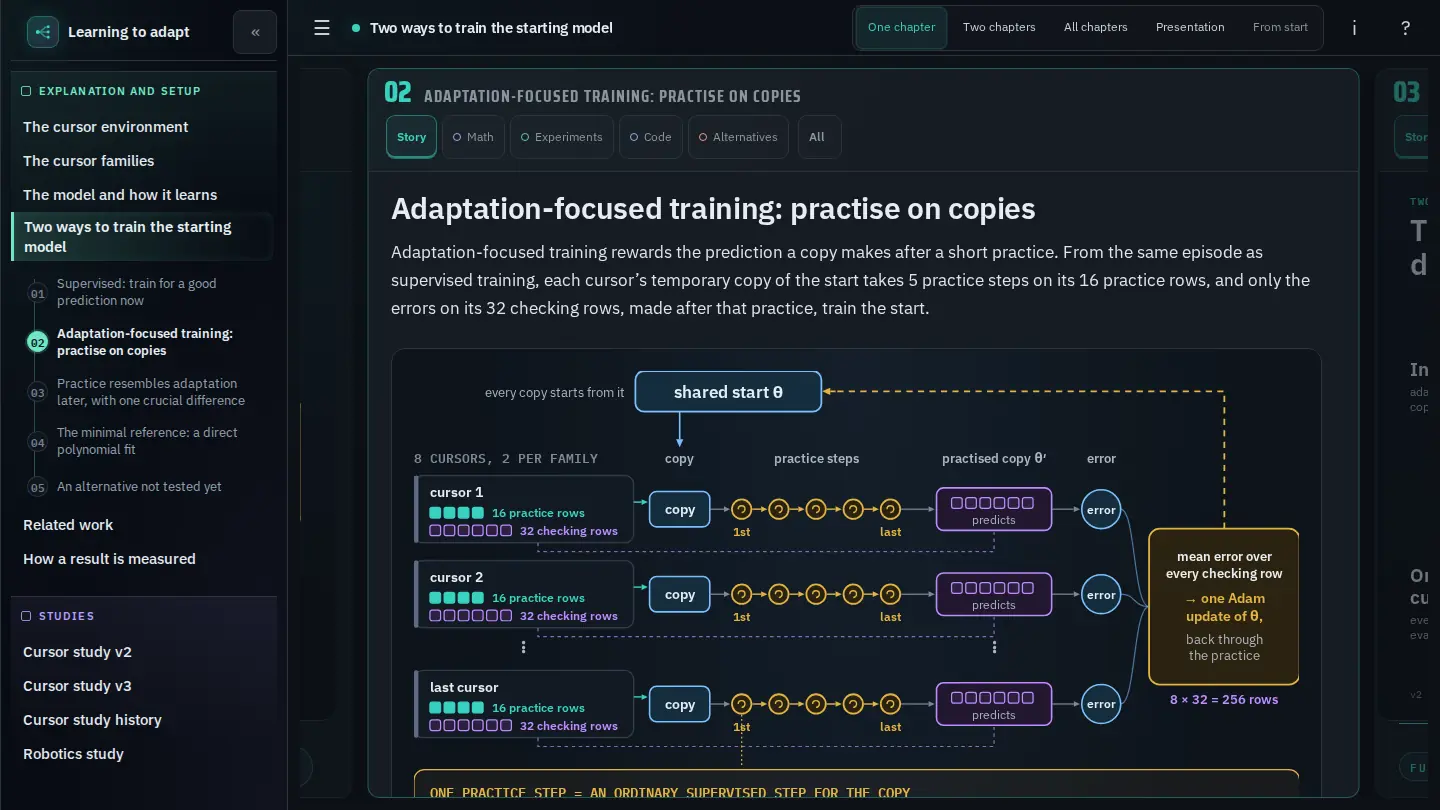
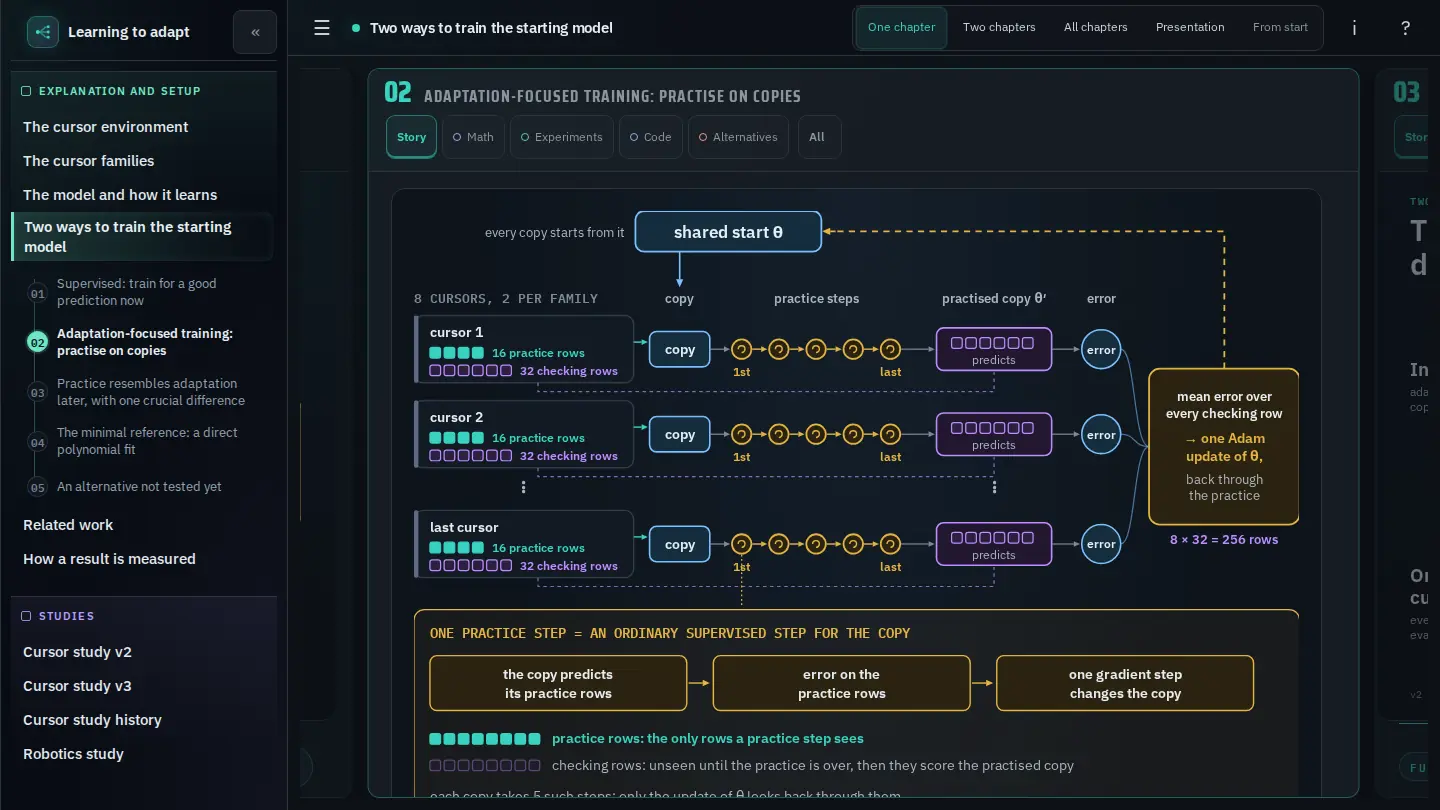
Retake the showcase pictures and say what each example shows
A review from the adaptation project found three faults in the
showcase of 5.6.0. One picture showed the footer of its page laid over
the reader, a defect that project has since removed. Two reader
pictures showed only the opening text of their chapter, not the figure
that makes it an example. And nothing told a reader what to look at.

All six reader pictures are retaken at the same adaptation commit with
the footer hidden and the chapter scrolled to its main figure. Five
lines under the figure name the kind of chapter and what to look at.
This is release 5.6.1, a patch: only the kit's own site and its README
picture change.

Changed region(s): [[0.25, 0.2469, 0.9062, 0.9877]]

diff --git a/docs/topics/build-a-site/index.md b/docs/topics/build-a-site/index.md
@@ -301,8 +301,17 @@ A single scroll is still available as **All chapters**, and it is what print and
 <img src="../topics/build-a-site/media/showcase/against-reference-face.webp" alt="Slide face from the adaptation project: a direct polynomial fit compared with the neural settings on six laws.">
 <img src="../topics/build-a-site/media/showcase/against-reference-reader.webp" alt="Its chapter in the reader: “Against the minimal reference, a straight-line fit is already enough”.">
 </div>
-<figcaption><b>Figure 3.</b> Six chapters of the adaptation project in a carousel: each slide face, then its chapter in the reader. They are examples of what a project can build with the kit, not templates. They were captured from that project at its commit <code>d22ef36</code> on 2026-11-25 and are not maintained; the text and numbers are the project's. The carousel advances by itself and pauses on hover; click a picture to open it full screen, scroll to zoom, drag to pan, <kbd>Esc</kbd> to close.</figcaption>
+<figcaption><b>Figure 3.</b> Six chapters of the adaptation project in a carousel: each slide face, then its chapter in the reader, scrolled to its main figure. They are examples of what a project can build with the kit, not templates. They were captured from that project at its commit <code>d22ef36</code> on 2026-11-25 and are not maintained; the text and numbers are the project's. The carousel advances by itself and pauses on hover; click a picture to open it full screen, scroll to zoom, drag to pan, <kbd>Esc</kbd> to close.</figcaption>
 </figure>
+
+What each example shows, in the order of the carousel:
+
+- **Pictures 1 and 2, a mechanism built step by step.** The face adds the four terms of a sum head to tail and magnifies the two small ones; the chapter builds the same sum over four panels.
+- **Pictures 3 and 4, a formula's terms as the visual.** Each family sits under the part of the law it rewrites, and an empty column marks the parts that no family rewrites.
+- **Pictures 5 to 8, twin chapters.** Two training methods on the same data with a different reward, drawn in one visual language so that the difference reads across the two.
+- **Pictures 9 and 10, real numbers and a historical case.** The teaching example uses the project's own numbers, and the failed run on the face shows only the values that were recorded, with no curve invented between them.
+- **Pictures 11 and 12, a result with its limit.** The face states the claim together with the one law where it stops holding; the chapter goes law by law.
+
 <div class="bs-grid g2">
 <div class="bs-part bs-teal"><span class="bs-label">Figures</span><h3>Built from the page, checked by the build</h3><ul>
 <li>flows and diagrams are HTML or SVG blocks with a text alternative, like Figures 1 and 2</li>

diff --git a/README.md b/README.md
@@ -176,7 +176,7 @@ says how to check and create it.
 The kit is versioned in `VERSION` and tagged `v<version>`. [Releases and
 upgrades](docs/topics/releases/releases.md) lists what each version changes for
 consumers and the migration steps; 1.0.0 is the first stable version.
-The current release is 5.6.0, a minor release that needs no migration step. The [5.5.0 migration guide](docs/topics/releases/migrations/5.5.0.md) covers the lint warning for a repeated id and the larger small labels. The [5.2.0 migration guide](docs/topics/releases/migrations/5.2.0.md) covers generated figures in two themes and the lint warning for untracked tooling; the [5.1.0 guide](docs/topics/releases/migrations/5.1.0.md) starts with which folders the Reference section lists, a decision a private repository with a public site makes before it moves the pin; the [5.0.0 guide](docs/topics/releases/migrations/5.0.0.md), the [4.0.0 guide](docs/topics/releases/migrations/4.0.0.md), the [3.2.0 guide](docs/topics/releases/migrations/3.2.0.md), the [3.1.0 guide](docs/topics/releases/migrations/3.1.0.md), the [3.0.0 guide](docs/topics/releases/migrations/3.0.0.md), the [2.0.0 guide](docs/topics/releases/migrations/2.0.0.md) and the [1.1.0 guide](docs/topics/releases/migrations/1.1.0.md) cover the earlier steps.
+The current release is 5.6.1, a patch that needs no migration step. The [5.5.0 migration guide](docs/topics/releases/migrations/5.5.0.md) covers the lint warning for a repeated id and the larger small labels. The [5.2.0 migration guide](docs/topics/releases/migrations/5.2.0.md) covers generated figures in two themes and the lint warning for untracked tooling; the [5.1.0 guide](docs/topics/releases/migrations/5.1.0.md) starts with which folders the Reference section lists, a decision a private repository with a public site makes before it moves the pin; the [5.0.0 guide](docs/topics/releases/migrations/5.0.0.md), the [4.0.0 guide](docs/topics/releases/migrations/4.0.0.md), the [3.2.0 guide](docs/topics/releases/migrations/3.2.0.md), the [3.1.0 guide](docs/topics/releases/migrations/3.1.0.md), the [3.0.0 guide](docs/topics/releases/migrations/3.0.0.md), the [2.0.0 guide](docs/topics/releases/migrations/2.0.0.md) and the [1.1.0 guide](docs/topics/releases/migrations/1.1.0.md) cover the earlier steps.
 
 Then run the [project conformance check](rules/conformance.md) and report its
 findings. Review changed human pages at wide and narrow widths before committing the

diff --git a/docs/KIT_WORKLOG.md b/docs/KIT_WORKLOG.md
@@ -2,6 +2,35 @@
 
 Chronology is append-only, newest first. Shared policy stays in `rules/`.
 
+## 2026-11-25 — 5.6.1 built on a branch: showcase pictures retaken
+
+- 5.6.0 is released: tag `v5.6.0` on `d705a2f`, pushed with `main`. The
+  Pages workflow passed, and the live site shows the 5.6.0 note, the page
+  types and the twelve pictures. Branch `rules-5.6.0`, this session's
+  scratch files and the brief from the adaptation session are removed.
+- deivid pasted a review of the showcase from the adaptation project with
+  three points. Checked before acting: the footer over the reader in the
+  picture of "Against the minimal reference" was visible in the picture;
+  the adaptation commit `33ccf8f`, "Remove the footers after the last
+  chapter of the three Cursor readers", exists in the local checkout.
+- My miss in 5.6.0: I had looked at three of the six reader pictures
+  before the release, saw the footer line in one and let it pass, and
+  did not check that each picture showed its chapter's figure. I had also
+  proposed one line per example and then wrote only alternative texts.
+- Retaken: all six reader pictures, from adaptation at `d22ef36` built
+  with kit `v5.5.1` in a scratch clone, 1440 by 810 px, footer hidden,
+  the chapter scrolled so that its main figure starts 16 px below the
+  chapter head. The twelve pictures are 545,768 bytes together.
+- Limit: the chapter "Step downhill, but not too far" has its two figures
+  1,223 px apart at this width, more than one window shows. The picture
+  shows the first, the error valley; the recorded failed run is on the
+  slide face.
+- Added under Figure 3: five lines that name the kind of chapter and what
+  to look at, in the review's wording where the pictures support it.
+- Looked at by eye: a sheet of all six retaken pictures, the chapter at
+  1440 px, and slides 10 and 12 in the carousel at 390 px.
+- Not pushed and not tagged. Release waits for deivid's go.
+
 ## 2026-11-25 — Release 5.6.0
 
 - deivid gave the go: "Yes, release 5.6.0". The ask named what the go

diff --git a/docs/topics/releases/releases.md b/docs/topics/releases/releases.md
@@ -26,6 +26,33 @@ gives the step for each. A minor upgrade can therefore need work: the
 [project conformance check](../../../rules/conformance.md) runs strict lint and
 shows the new warnings.
 
+## 5.6.1 — the showcase pictures retaken, and a line on what each shows
+
+5.6.1 is a patch release under
+[what a version number promises](#what-a-version-number-promises): it
+corrects the showcase that 5.6.0 added to
+[Build a site](../build-a-site/index.md) and needs no migration step. Only
+the kit's own site and its README picture change; a project moves its pin
+to `v5.6.1` and builds as before. A review from the adaptation project
+named the three points.
+
+- **One picture showed a defect of the page it came from.** In the picture
+  of the chapter "Against the minimal reference" the page's footer lay over
+  the bottom of the reader. The picture is retaken at the same commit,
+  `d22ef36`, with the footer hidden.
+- **Each reader picture shows its chapter's main figure.** Two of the six
+  showed only the opening text of their chapter. All six are retaken,
+  scrolled so that the figure starts the view.
+- **A line says what each example shows.** Under the figure, five lines
+  name the kind of chapter and what to look at.
+
+Not covered. The chapter "Step downhill, but not too far" has two figures,
+the error valley and the recorded failed run, with text between them; one
+picture cannot hold both, and it shows the valley. The failed run is on
+that chapter's slide face. Hiding the footer changes what a reader of
+that page saw at `d22ef36`; the adaptation project has since removed the
+footer in a commit of its own.
+
 ## 5.6.0 — page types, five smaller rules and a showcase of chapters
 
 5.6.0 is a minor release under

diff --git a/docs/KIT_CONTEXT.md b/docs/KIT_CONTEXT.md
@@ -34,7 +34,7 @@ owns the shared panel switcher's authoring, behavior and extraction checks.
 
 [Releases and upgrades](topics/releases/releases.md) owns version notes and
 consumer migration steps; `VERSION` holds the current version.
-The current release is 5.6.0, a minor release without a migration step. The
+The current release is 5.6.1, a patch without a migration step. The
 [5.5.0 migration guide](topics/releases/migrations/5.5.0.md) covers the
 warning for a repeated id and the larger small labels. The
 [5.2.0 migration guide](topics/releases/migrations/5.2.0.md) covers

diff --git a/docs/KIT_INDEX.md b/docs/KIT_INDEX.md
@@ -50,7 +50,7 @@ shared independent-comparison component.
 [Releases and upgrades](topics/releases/releases.md) owns version changes,
 stable interfaces and what a version number promises. The
 [5.5.0 migration guide](topics/releases/migrations/5.5.0.md) moves 5.2.0 to
-5.4.1 consumers to 5.5.0; the current 5.6.0 needs no step. The
+5.4.1 consumers to 5.5.0; the current 5.6.1 needs no step. The
 [5.2.0 migration guide](topics/releases/migrations/5.2.0.md)
 moves 5.1.0 consumers to 5.2.0. The
 [5.1.0 guide](topics/releases/migrations/5.1.0.md) moves 5.0.0 consumers to
